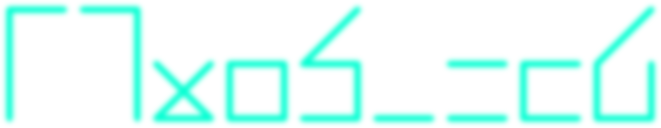
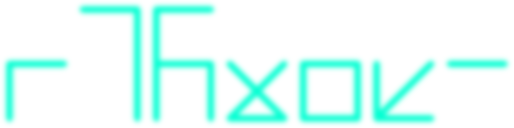
I got some new ideas. This is gonna be pretty cool! (Hopefully)

diff --git a/main.py b/main.py
@@ -165,11 +165,11 @@ class Box:
 window = pyglet.window.Window(1024, 768)
 symbols_image = pyglet.image.load("symbols.png")
 symbols_highlighted_image = pyglet.image.load("symbols_highlighted.png")
-symbol_grid = pyglet.image.ImageGrid(symbols_image, 1, 9)
-symbol_highlighted_grid = pyglet.image.ImageGrid(symbols_highlighted_image, 1, 9)
+symbol_grid = pyglet.image.ImageGrid(symbols_image, 1, 7)
+symbol_highlighted_grid = pyglet.image.ImageGrid(symbols_highlighted_image, 1, 7)
 a = Symbol(symbol_grid[0], symbol_highlighted_grid[0], 0, 0, "a")
 symbol_list = []
-for i in range(9):
+for i in range(7):
     symbol_list.append(Symbol(symbol_grid[i], symbol_highlighted_grid[i], 12+i*73, 12, chr(ord("a")+i)))
 
 box_list = []
@@ -229,7 +229,7 @@ def update_result():
         result_box.symbol = None
     else:
         result = input_eval(exp)
-        print result
+        #print result
         if result == None:
             result_box.symbol = None
         else:
